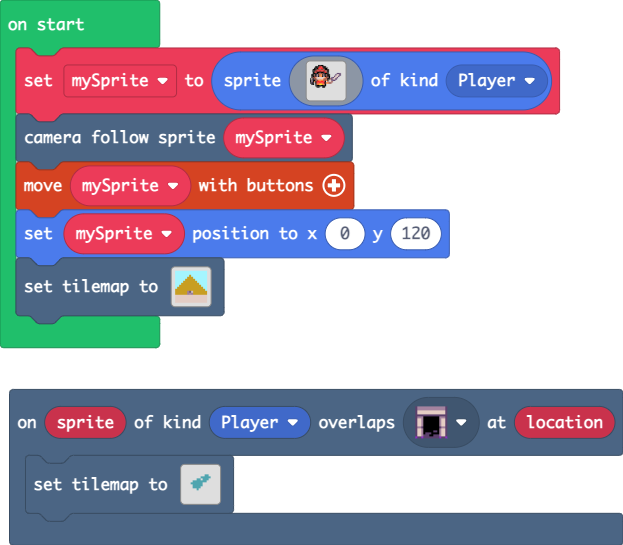
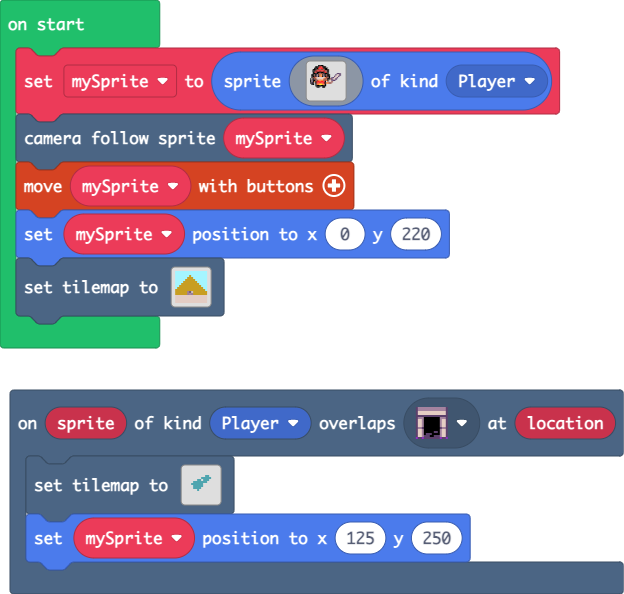
position wall map2

diff --git a/tilemap.g.ts b/tilemap.g.ts
@@ -15,25 +15,6 @@ namespace myTiles {
 
     helpers._registerFactory("tilemap", function(name: string) {
         switch(helpers.stringTrim(name)) {
-            case "entrée pyramide":
-            case "level1":return tiles.createTilemap(hex`1000100008080808080808080808080808080808080808080808080808080808080808080808080808080806080808080808080808080808080806060608080808080808080808080806060606060808080808080808080806060606060606080808080808080806060606060606060608080808080806060606060606060606060808080806060606060606060606060606080806060606060606060606060606060608060606060606030504060606060606060606060606060301020606060606060607070707070707070707070707070707070707070707070707070707070707070707070707070707070707070707070707070707070707070707070707070707`, img`
-. . . . . . . . . . . . . . . . 
-. . . . . . . . . . . . . . . . 
-. . . . . . . . . . . . . . . . 
-. . . . . . . . . . . . . . . . 
-. . . . . . . . . . . . . . . . 
-. . . . . . . . . . . . . . . . 
-. . . . . . . . . . . . . . . . 
-. . . . . . . . . . . . . . . . 
-. . . . . . . . . . . . . . . . 
-. . . . . . . . . . . . . . . . 
-. . . . . . . . . . . . . . . . 
-. . . . . . . . . . . . . . . . 
-. . . . . . . . . . . . . . . . 
-. . . . . . . . . . . . . . . . 
-. . . . . . . . . . . . . . . . 
-. . . . . . . . . . . . . . . . 
-`, [myTiles.transparency16,sprites.dungeon.stairNorth,sprites.dungeon.floorDark5,sprites.dungeon.floorDark1,sprites.dungeon.floorLightMoss,sprites.dungeon.doorOpenNorth,myTiles.tile4,sprites.castle.tilePath5,myTiles.tile3], TileScale.Sixteen);
             case "level3":
             case "level3":return tiles.createTilemap(hex`1000100000000000000000000000000000000000000000000000000000000000000000000000000000000000000000000000000000000000000000000000000000000000000000000000000000000000000000000000000000000000000000000000000000000000000000000000000000000000000000000000000000000000000000000000000000000000000000000000000000000000000000000000000000000000000000000000000000000000000000000000000000000000000000000000000000000000000000000000000000000000000000000000000000000000000000000000000000000000000000000000000000000000000000000000000000000000`, img`
 . . . . . . . . . . . . . . . . 
@@ -110,6 +91,44 @@ namespace myTiles {
 . . . . . . . . . . . . . . . . 
 . . . . . . . . . . . . . . . . 
 `, [myTiles.transparency16], TileScale.Sixteen);
+            case "level6":
+            case "level6":return tiles.createTilemap(hex`1000100000000000000000000000000000000000000000000000000000000000000000000000000000000000000000000000000000000000000000000000000000000000000000000000000000000000000000000000000000000000000000000000000000000000000000000000000000000000000000000000000000000000000000000000000000000000000000000000000000000000000000000000000000000000000000000000000000000000000000000000000000000000000000000000000000000000000000000000000000000000000000000000000000000000000000000000000000000000000000000000000000000000000000000000000000000000`, img`
+. . . . . . . . . . . . . . . . 
+. . . . . . . . . . . . . . . . 
+. . . . . . . . . . . . . . . . 
+. . . . . . . . . . . . . . . . 
+. . . . . . . . . . . . . . . . 
+. . . . . . . . . . . . . . . . 
+. . . . . . . . . . . . . . . . 
+. . . . . . . . . . . . . . . . 
+. . . . . . . . . . . . . . . . 
+. . . . . . . . . . . . . . . . 
+. . . . . . . . . . . . . . . . 
+. . . . . . . . . . . . . . . . 
+. . . . . . . . . . . . . . . . 
+. . . . . . . . . . . . . . . . 
+. . . . . . . . . . . . . . . . 
+. . . . . . . . . . . . . . . . 
+`, [myTiles.transparency16], TileScale.Sixteen);
+            case "entrée pyramide":
+            case "level1":return tiles.createTilemap(hex`1000100008080808080808080808080808080808080808080808080808080808080808080808080808080806080808080808080808080808080806060608080808080808080808080806060606060808080808080808080806060606060606080808080808080806060606060606060608080808080806060606060606060606060808080806060606060606060606060606080806060606060606060606060606060608060606060606030504060606060606060606060606060301020606060606060607070707070707070707070707070707070707070707070707070707070707070707070707070707070707070707070707070707070707070707070707070707`, img`
+. . . . . . . . . . . . . . . . 
+. . . . . . . . . . . . . . . . 
+. . . . . . . . . . . . . . . . 
+. . . . . . . . . . . . . . . . 
+. . . . . . . . . . . . . . . . 
+. . . . . . . . . . . . . . . . 
+. . . . . . . . . . . . . . . . 
+. . . . . . . . . . . . . . . . 
+. . . . . . . . . . . . . . . . 
+. . . . . 2 2 2 2 2 . . . . . . 
+. . . . . 2 . . . 2 . . . . . . 
+2 2 2 2 2 2 . . . 2 2 2 2 2 2 2 
+. . . . . . . . . . . . . . . . 
+. . . . . . . . . . . . . . . . 
+. . . . . . . . . . . . . . . . 
+. . . . . . . . . . . . . . . . 
+`, [myTiles.transparency16,sprites.dungeon.stairNorth,sprites.dungeon.floorDark5,sprites.dungeon.floorDark1,sprites.dungeon.floorLightMoss,sprites.dungeon.doorOpenNorth,myTiles.tile4,sprites.castle.tilePath5,myTiles.tile3], TileScale.Sixteen);
         }
         return null;
     })

diff --git a/main.ts b/main.ts
@@ -1,7 +1,9 @@
 scene.onOverlapTile(SpriteKind.Player, sprites.dungeon.doorOpenNorth, function (sprite, location) {
     tiles.setTilemap(tilemap`level2`)
+    mySprite.setPosition(125, 250)
 })
-let mySprite = sprites.create(img`
+let mySprite: Sprite = null
+mySprite = sprites.create(img`
     ......ffff..............
     ....fff22fff............
     ...fff2222fff...........
@@ -29,5 +31,5 @@ let mySprite = sprites.create(img`
     `, SpriteKind.Player)
 scene.cameraFollowSprite(mySprite)
 controller.moveSprite(mySprite)
-mySprite.setPosition(0, 120)
+mySprite.setPosition(0, 220)
 tiles.setTilemap(tilemap`entrée pyramide`)
